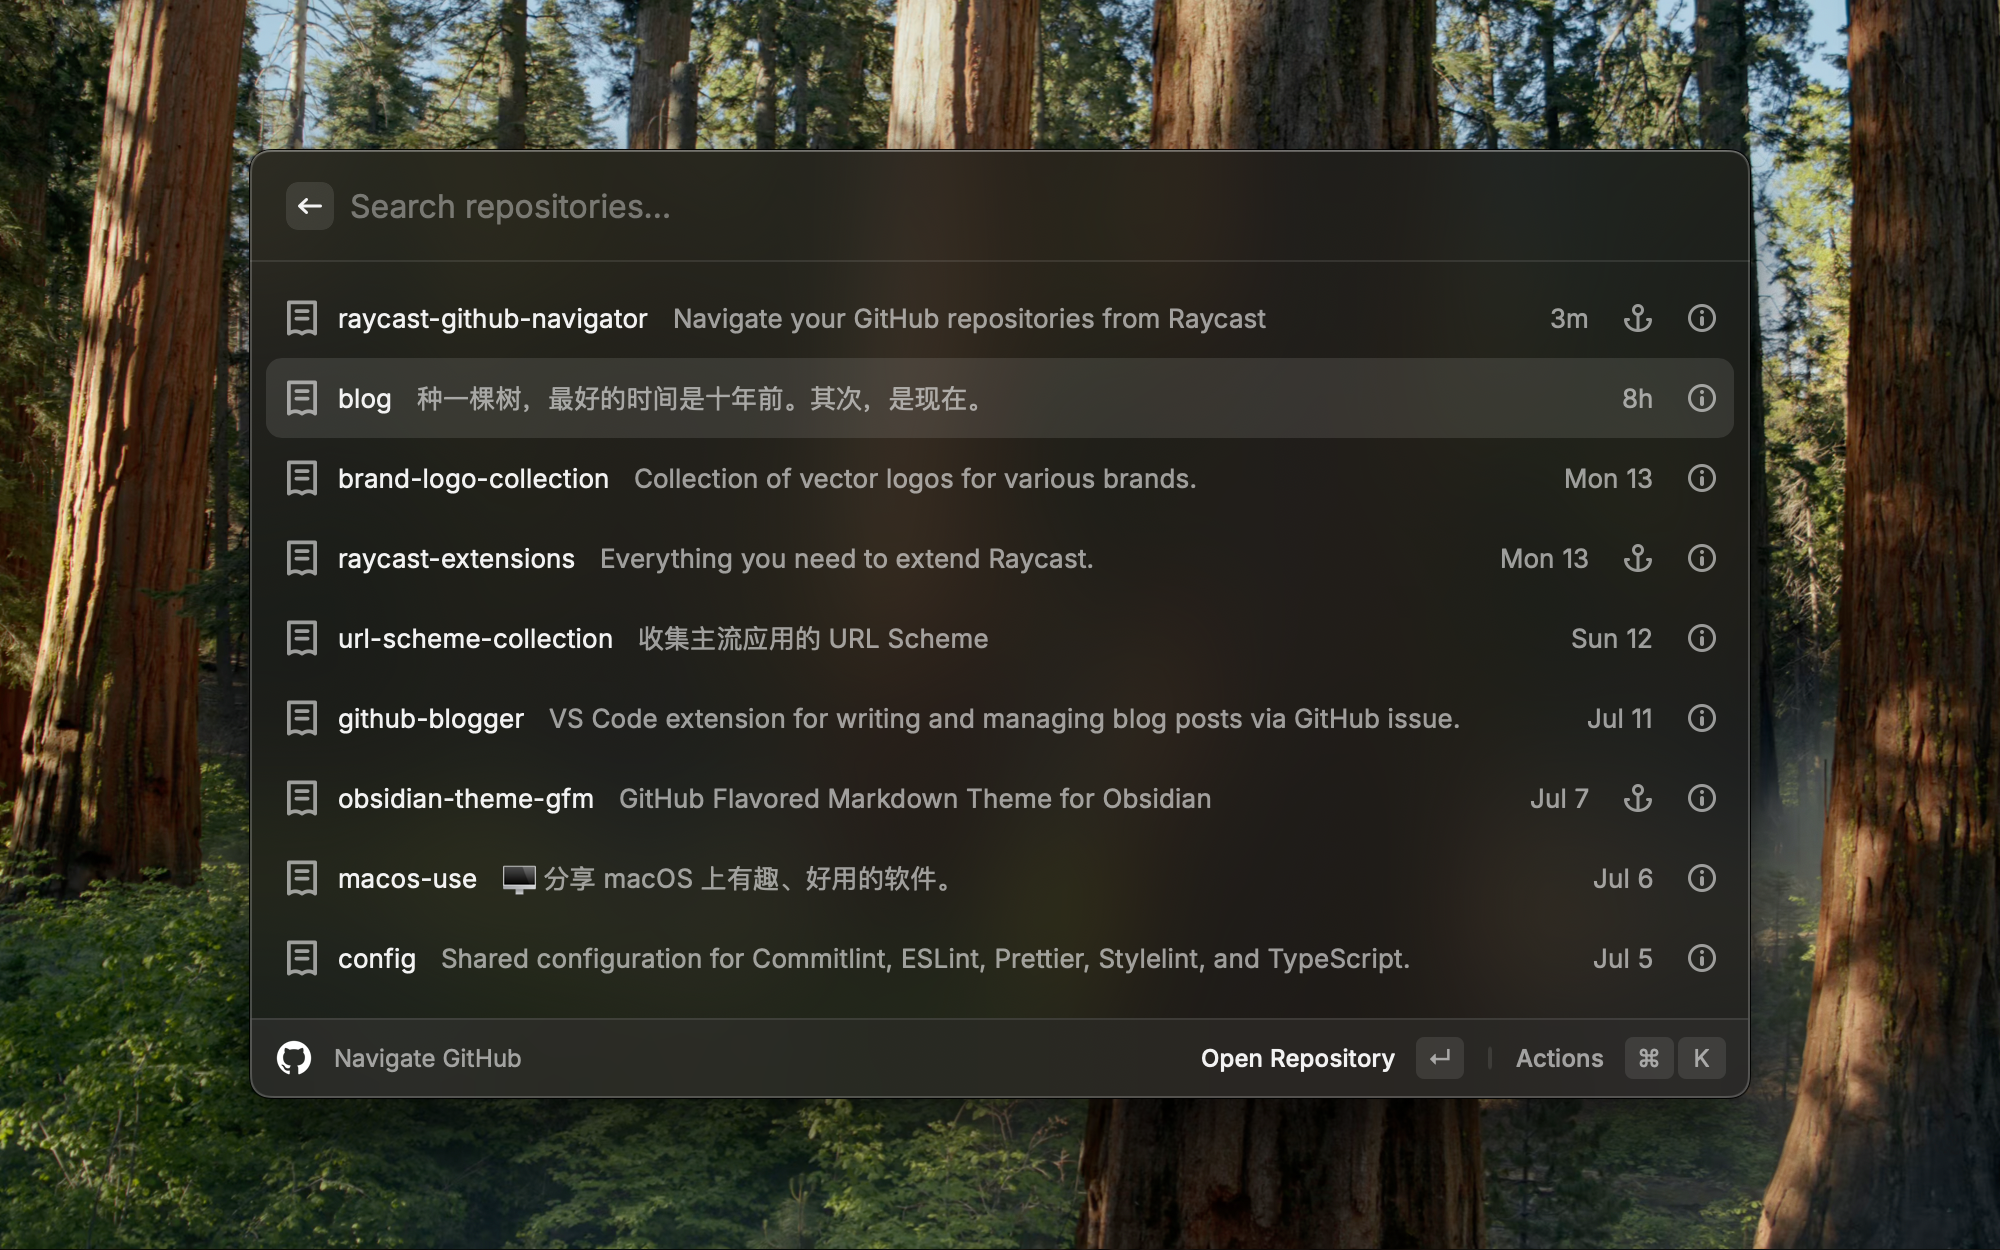
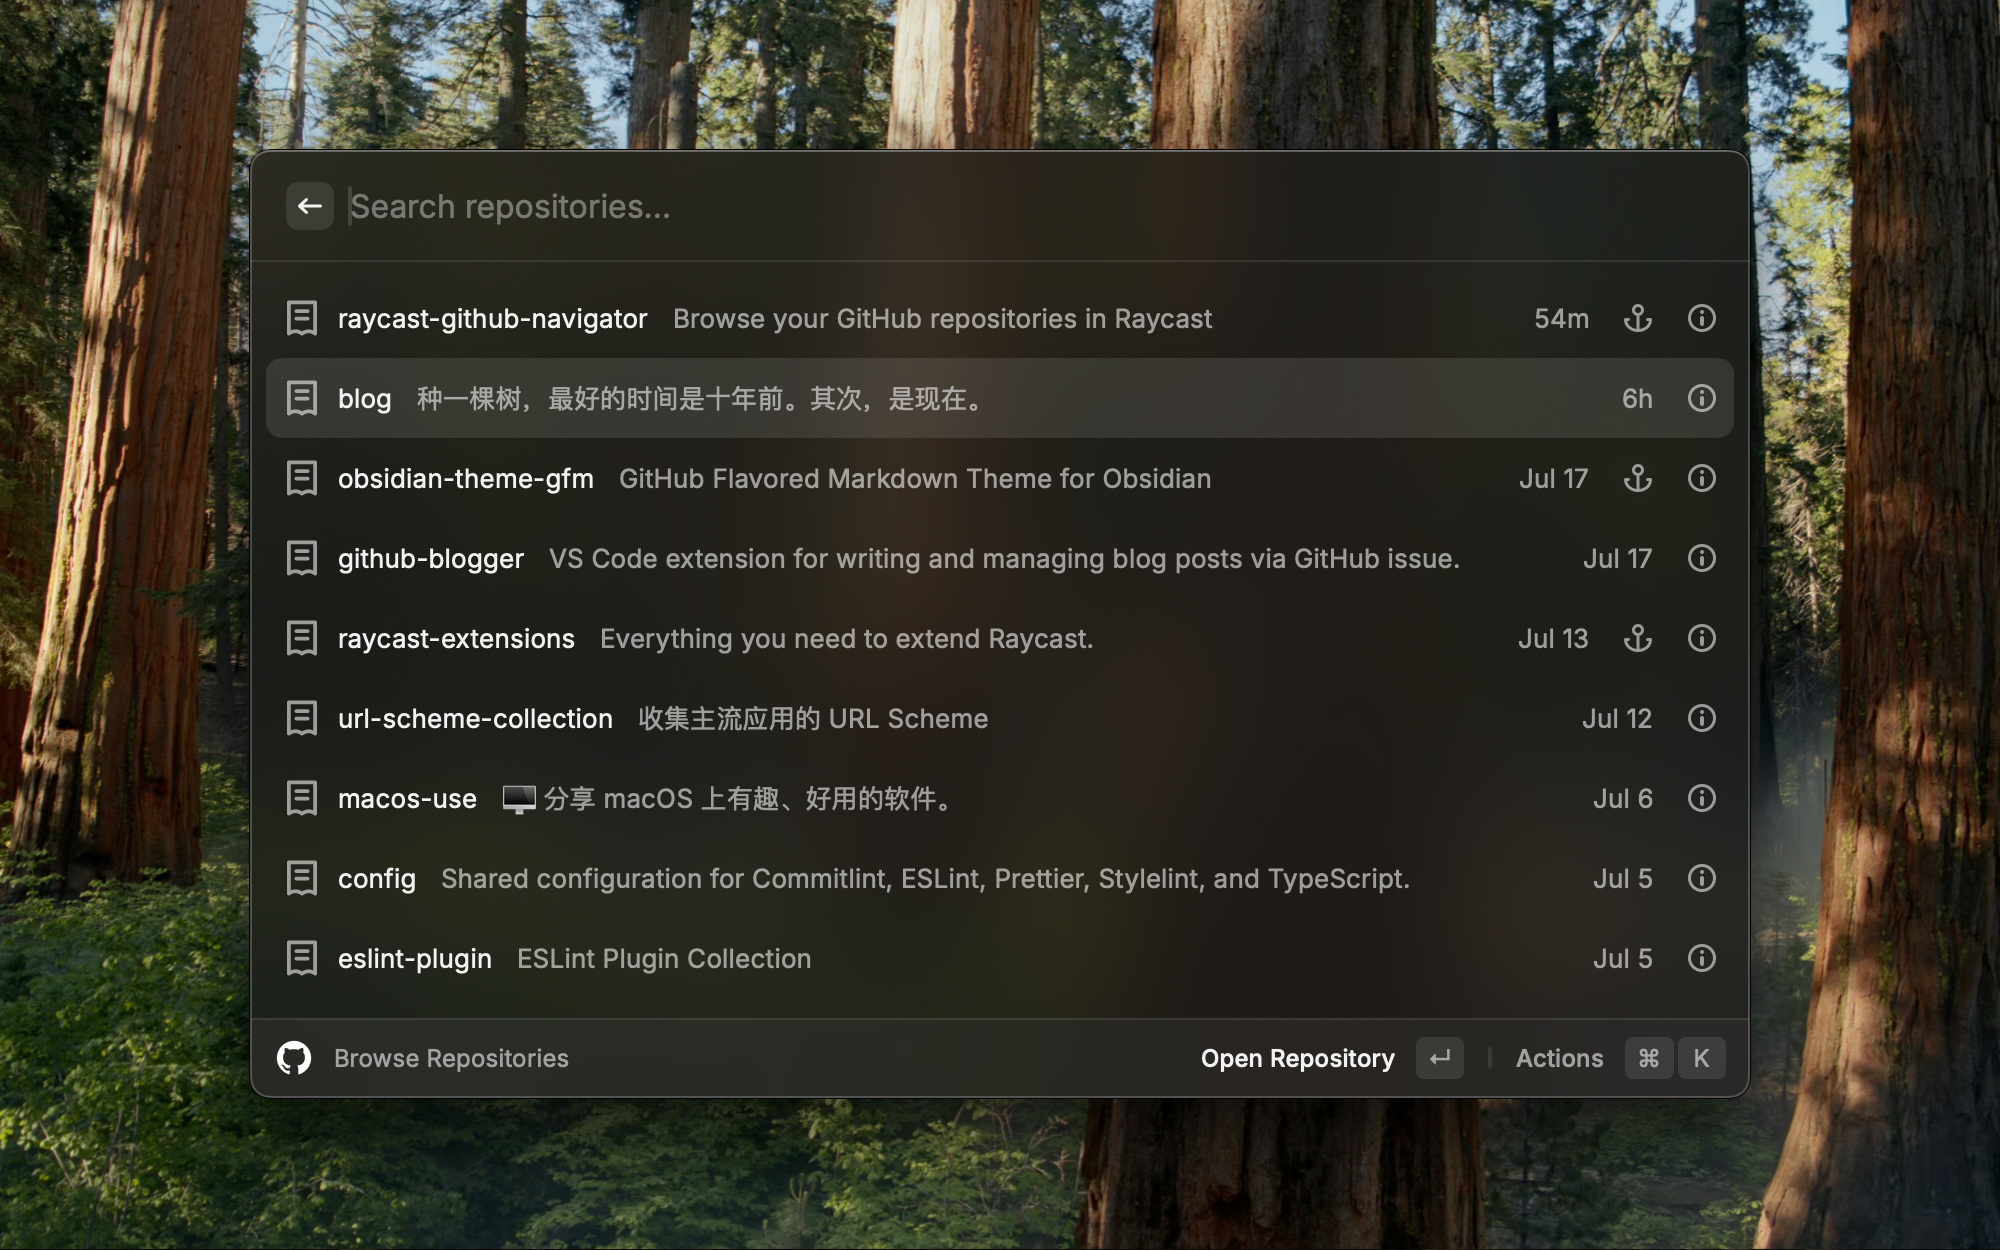
refactor: update preferences and documents

diff --git a/src/graph.ts b/src/graph.ts
@@ -1,7 +1,7 @@
-import { Octokit } from '@octokit/core';
 import type { Repository } from './types';
+import { Octokit } from '@octokit/core';
 
-type RepoNode = {
+interface RepoNode {
   databaseId: number | string;
   name: string;
   nameWithOwner: string;
@@ -15,18 +15,18 @@ type RepoNode = {
   pullRequests: { totalCount: number };
   owner: { login: string };
   parent?: { nameWithOwner?: string | null } | null;
-};
+}
 
-type OrgsQueryResult = {
+interface OrgsQueryResult {
   viewer: {
     login: string;
     organizations: {
       nodes: { login: string }[];
     };
   };
-};
+}
 
-type ReposQueryResult = {
+interface ReposQueryResult {
   viewer?: {
     repositories: {
       nodes: RepoNode[];
@@ -39,12 +39,12 @@ type ReposQueryResult = {
       pageInfo: { hasNextPage: boolean; endCursor: string | null };
     };
   };
-};
+}
 
-type RepoConnection = {
+interface RepoConnection {
   nodes: RepoNode[];
   pageInfo: { hasNextPage: boolean; endCursor: string | null };
-};
+}
 
 function createOctokit(token: string) {
   return new Octokit({ auth: token });
@@ -70,7 +70,7 @@ function transformRepo(node: RepoNode, viewerLogin: string): Repository {
   };
 }
 
-function getRepoSortOrder(sort: Preferences.NavigateGithub['sort']) {
+function getRepoSortOrder(sort: Preferences.BrowserRepository['sort']) {
   if (sort !== 'updated_at') return undefined;
 
   return { field: 'UPDATED_AT', direction: 'DESC' };
@@ -120,7 +120,7 @@ const ORGS_QUERY = `query {
   }
 }`;
 
-export async function fetchAllRepos(token: string, sort: Preferences.NavigateGithub['sort']): Promise<Repository[]> {
+export async function fetchAllRepos(token: string, sort: Preferences.BrowserRepository['sort']): Promise<Repository[]> {
   const octokit = createOctokit(token);
   const seen = new Set<string>();
   const repos: Repository[] = [];

diff --git a/README.md b/README.md
@@ -1,41 +1,41 @@
 # GitHub Navigator
 
-Navigate your GitHub repositories from Raycast — personal, collaborator, and organization repos in one place with smart sorting.
-
 ![GitHub Navigator screenshot][1]
+
+Browse your GitHub repositories in Raycast: personal, collaborator, and organization repositories in one place, with flexible sorting.
 
 ## Features
 
-- All your repos: personal (owner), collaborator, and organization repositories
-- Sort by last updated, stars, open issues, or pull requests
-- Frecency sorting: repos you use most float to the top over time
-- Quick actions: open repo, issues, PRs, actions, releases, settings, or dependents (⌘1–⌘7)
-- Reuse browser tab: optionally focus an existing tab instead of opening a new one
+- **Unified repository list**: personal (owner), collaborator, and organization repositories in one place
+- **Flexible sorting**: sort by last updated, stars, open issues, or pull requests
+- **Optional frecency sorting**: repositories you open more often and more recently can move higher in the list
+- **Quick actions**: open a repository, issues, pull requests, actions, releases, insights, settings, and dependents; forked repositories also include an upstream action (⌘1 ~ ⌘9)
+- **Browser tab reuse**: optionally focus an existing browser tab instead of opening a new one
 
 ## Install
 
 Requires [Raycast][2] and [Node.js][3] 20+.
 
-```sh
-git clone https://github.com/tofrankie/raycast-github-navigator.git
-cd raycast-github-navigator
-npm install
-npm run dev
+```bash
+$ git clone https://github.com/tofrankie/raycast-github-navigator.git
+$ cd raycast-github-navigator
+$ npm install
+$ npm run dev
 ```
 
-This registers the extension in Raycast. After the initial setup, the extension persists — you don't need to keep the dev server running.
+This registers the extension in Raycast. After the initial setup, the extension stays available, so you do not need to keep the dev server running.
 
 To update later:
 
-```sh
-git pull
-npm install
-npm run build
+```bash
+$ git pull
+$ npm install
+$ npm run build
 ```
 
 ## GitHub Token
 
-The extension requires a [personal access token][4] (classic) with these scopes:
+The extension requires a [classic personal access token][4] with these scopes:
 
 - `repo` — access repository data
 - `read:org` — list organization repos
@@ -43,12 +43,13 @@ The extension requires a [personal access token][4] (classic) with these scopes:
 
 You'll be prompted to enter the token when you first run the command.
 
-## Configuration
+## Command Preferences
 
-| Setting           | Description                                                        | Default          |
-| ----------------- | ------------------------------------------------------------------ | ---------------- |
-| Sort by           | Sort repos by last updated, stars, open issues, or pull requests | Last Updated |
-| Reuse browser tab | Focus existing tab instead of opening new                          | false            |
+| Setting           | Description                                                                                              | Default      |
+| ----------------- | -------------------------------------------------------------------------------------------------------- | ------------ |
+| Sorting           | Choose the initial sorting method for repositories                                                       | Last Updated |
+| Frecency Sorting  | After the initial sort, apply frecency sorting based on how often and how recently you open repositories | On           |
+| Browser Tab Reuse | Focus an existing browser tab instead of opening a new one                                               | Off          |
 
 ## Firefox / Zen
 
@@ -58,10 +59,10 @@ from the active tab work out of the box for Chrome and Safari (via AppleScript).
 For Firefox and Zen, a companion browser extension and native messaging host are
 required — see [browser-tab-bridge][5] to set this up.
 
-## Tip: Hotkey
+## Tip
 
 Assign a global hotkey to open this command directly:
-Raycast Settings → Extensions → GitHub Navigator → Navigate GitHub → Hotkey (e.g. `Hyper Key` + `N`).
+Raycast Settings → Extensions → GitHub Navigator → Browse Repositories → Hotkey (e.g. `Hyper Key` + `N`).
 
 [1]: metadata/screenshot-1.png
 [2]: https://raycast.com/?via=73820f